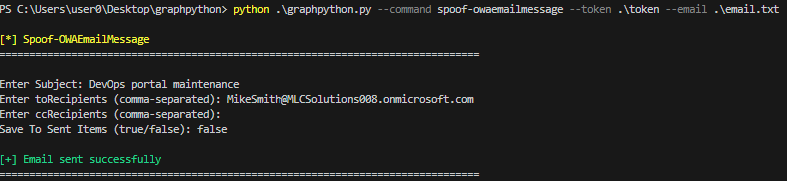
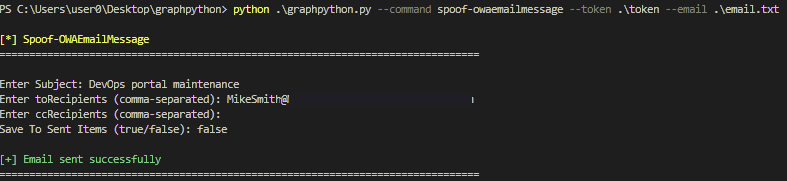
Update

diff --git a/graphpython.py b/graphpython.py
@@ -4163,7 +4163,6 @@ def main():
                 for key, value in policy.items():
                     print(f"{key} : {value}")
                 
-                # Print template information
                 if 'templateReference' in policy and 'templateDisplayName' in policy['templateReference']:
                     print(f"template: {policy['templateReference']['templateDisplayName']}")
                 
@@ -5357,8 +5356,6 @@ def main():
             assignment_payload = {
                 "deviceManagementScriptAssignments": assignments
             }
-
-            # https://learn.microsoft.com/en-us/graph/api/resources/intune-devices-devicemanagementscriptassignment?view=graph-rest-beta
 
             response = requests.post(url_assign, headers=headers, json=assignment_payload)
             if response.status_code == 200:
